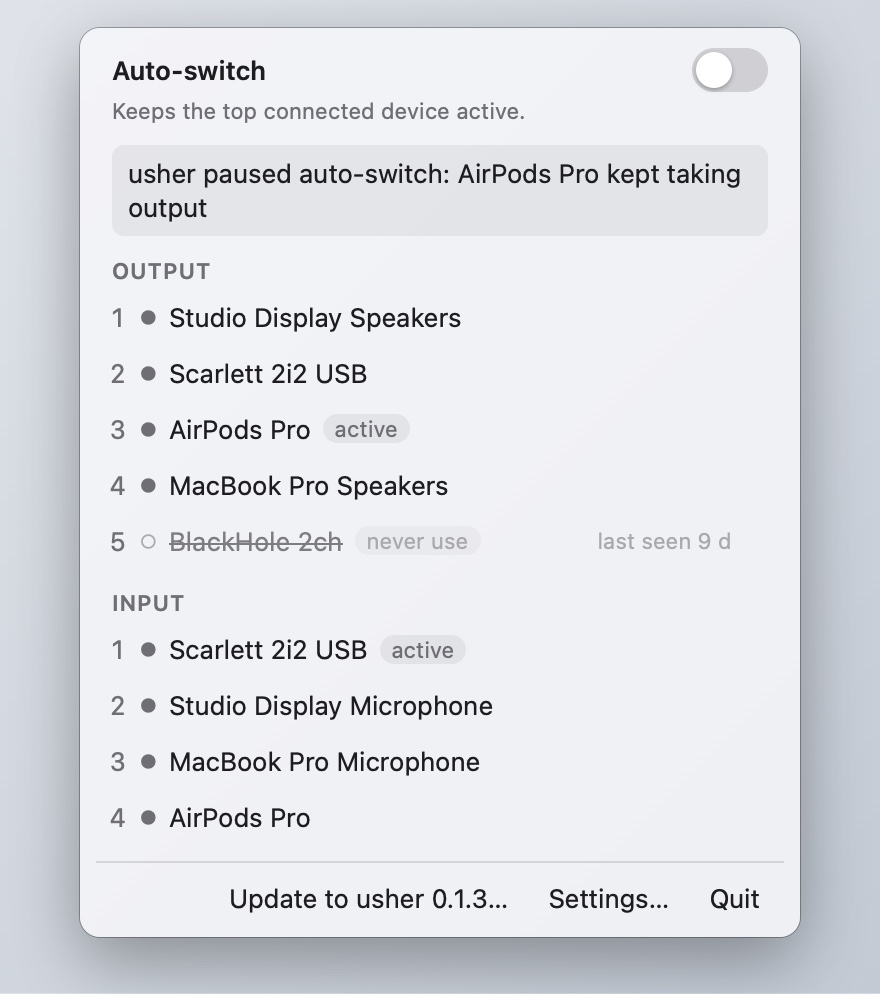
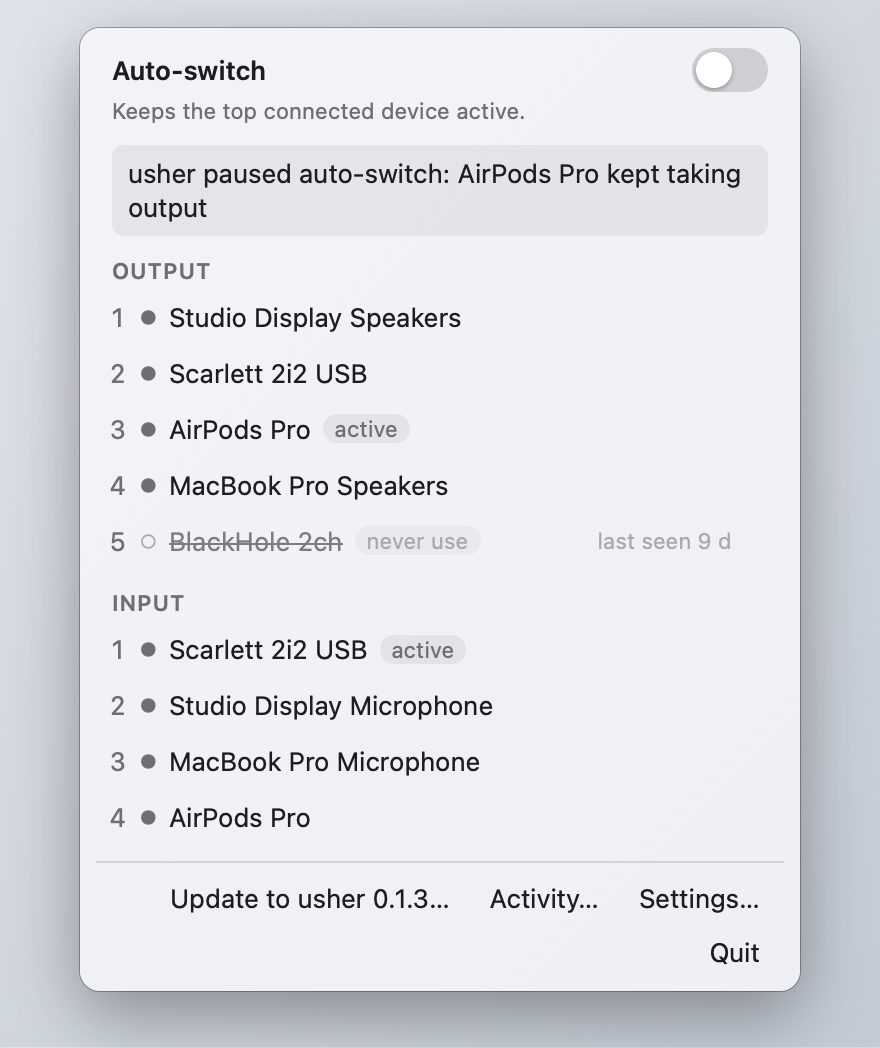
docs: Activity usage, ADR 0011, QA rows and changeset
Claude-Session: https://claude.ai/code/session_012ZCdCJDnGe94t6np1vmDmB

diff --git a/site/scripts/screens/mock.js b/site/scripts/screens/mock.js
@@ -25,10 +25,31 @@
     paused: paused ? { role: 'output', key: 'airpods', name: 'AirPods Pro' } : null,
     output, input, errors: { output: null, input: null }, readOnly: false,
     update: paused ? '0.1.3' : null,
+    notifySwitches: true,
   };
-  const settings = { login: true, loginRefusal: null, debug: false, updateCheck: true, update: '0.1.3', version: '0.1.2' };
+  const settings = { login: true, loginRefusal: null, debug: false, notifySwitches: true, updateCheck: true, update: '0.1.3', version: '0.1.2' };
   // the real 0.1.3 entry of CHANGELOG.md, as release-notes.mjs writes it (no commit hash)
   const notes = "### Patch Changes\n\n- Fixed a brief switch away from a USB audio device that moved port while usher was closed.\n- Replaced the app icon and the menu-bar icon with usher's own design: ranked bars with a sound wave on the top one.\n- Fixed the panel footer overflowing when an update is waiting, and made What's new notes fade out under the title bar when scrolled.\n\n---\n";
+  const min = 60e3;
+  const lines = [
+    { seq: 4, at: ago(1 * min), text: 'Auto-switch on', why: null },
+    { seq: 3, at: ago(6 * min), text: 'Output: Studio Display Speakers → AirPods Pro', why: 'changed in usher' },
+    { seq: 2, at: ago(19 * min), text: 'Input: AirPods Pro → Scarlett 2i2 USB', why: 'AirPods Pro took input; usher put it back' },
+    { seq: 1, at: ago(42 * min), text: 'Output: AirPods Pro → Studio Display Speakers', why: 'AirPods Pro disconnected' },
+  ];
+  // made-up report in the shape Copy diagnostics produces: no names, addresses or serials
+  const report = [
+    'usher 0.2.0 · macOS 26.1 · log ~/Library/Logs/com.cef62.usher/usher.log',
+    'engine: subscribed · rebinding: no · read-only store: no · USB verdict unresolved: no',
+    '',
+    'output: desired AirPods Pro (xx-xx-xx-xx-CF-9D:output), current AirPods Pro (xx-xx-xx-xx-CF-9D:output)',
+    '  1. AirPods Pro (xx-xx-xx-xx-CF-9D:output)',
+    '  2. Studio Display Speakers (uid#1)',
+    '',
+    'devices in the last scan:',
+    '  AirPods Pro · xx-xx-xx-xx-CF-9D:output · bluetooth · alive · visible · serial-less USB: no · alias: none',
+    '',
+  ].join('\n');
   let cbId = 0;
   const cbs = {};
   window.__TAURI_EVENT_PLUGIN_INTERNALS__ = { unregisterListener() {} };
@@ -42,6 +63,8 @@
         case 'plugin:event|listen': return ++cbId;
         case 'get_view': return view;
         case 'get_settings': return settings;
+        case 'get_activity': return lines;
+        case 'get_diagnostics': return report;
         case 'whatsnew_info': return { update: { version: '0.1.3', current_version: '0.1.2', notes }, phase: { kind: 'idle' } };
         // never forwarded anywhere: the mock changes nothing
         default: return null;

diff --git a/docs/adr/0011-v2-scope.md b/docs/adr/0011-v2-scope.md
@@ -1,0 +1,64 @@
+# 0011. v2 scope
+
+- Status: Accepted
+- Date: 2026-11-24
+- Departs from: the v1 non-goals in `docs/superpowers/specs/2026-11-23-usher-design.md` §2
+- Spec: `docs/superpowers/specs/2026-11-24-usher-v2-design.md` §2, §5, §9
+
+## Context
+
+v1 shipped (0.1.0 to 0.1.3) with these non-goals: switch notifications and history, a diagnostics
+UI, volume and mute, Bluetooth connect and battery. The owner asked for them in v2, in three
+milestones: M6 Activity, M7 Volume and mute, M8 Bluetooth.
+
+## Options
+
+1. **Keep the v1 non-goals.** usher stays a silent switcher; bug reports need the log file.
+2. **Lift them one milestone at a time, each with its own ADR where the design departs.** Chosen.
+3. **Lift them all with one ADR.** Hides the M8 trade-offs (IOBluetooth, `unsafe` scope) in a scope note.
+
+## Decision
+
+Option 2. This ADR lifts the v1 non-goals for:
+
+- **Switch notices and a session history** (M6, built).
+- **A diagnostics UI** (M6, built): the Activity window and **Copy diagnostics**, redacted for a public issue.
+- **Volume and mute** (M7, to come) and **Bluetooth connect and battery** (M8, to come). ADR 0012
+  (Bluetooth) and ADR 0013 (level listeners) will record their design.
+
+Non-goals that stay (v2 spec §2): volume or mute shortcuts, option-click or scroll on the icon,
+per-row volume sliders, a remembered volume per device, a persisted history (the log file is the
+permanent record), selecting a device on Connect, and profiles, Focus modes, separate
+speaker and headphone lists, vendor HID and Intel builds. All v1 anti-goals still apply, plus: no
+notice for a change the user made in usher, no CoreAudio write outside the engine thread, nothing
+unsafe to paste in a public issue in Copy diagnostics.
+
+M6 departs from the spec text in four places (plan `2026-11-24-usher-m6-activity.md`):
+
+- **Decision 4, trigger merge order.** The spec's precedence is extended to
+  `Command > Rebind > Launch > DefaultChanged > DevicesChanged`. `Launch` and `Rebind` are history
+  only, so they must outrank the event triggers that would otherwise make a notice at start or
+  after a coreaudiod restart.
+- **Decision 9, history lines are rendered in Rust.** The shell keeps `Line { seq, at, text, why }`;
+  the page only lays them out, so the text exists once (log, window, notice). There is no role
+  column: the role is the first word of the text.
+- **Decision 11, owner-name stripping goes beyond the spec's `'s` rule.** Besides a leading
+  `<name>'s `, any whole word, case-insensitive, of the Mac account's full name or short name is
+  removed together with a connector word before it (`di`, `de`, `da`, `du`, `del`, `von`, `van`,
+  `of`). Device names carry the owner in any language ("AirPods Pro di Ada" on an Italian Mac), and the
+  text is meant for public issues.
+- **Decisions 1 to 3, 5, 6, 10:** the cause comes from the snapshot diff, not the trigger; at most
+  one notice per role per 10 s (history keeps every entry); `Shell::notice` sits beside
+  `Shell::activity`; entries hold names, not keys; diagnostics answer before the first scan; the
+  window shows the redacted text Copy puts on the clipboard.
+
+## Consequences
+
+- **Known limit.** An unplug within about 150 ms of usher's own write can read as
+  "`<name>` took output; usher put it back" instead of "disconnected": the previous snapshot is the
+  pre-write scan, so it still lists the device as current. The device switch itself is right; only the history
+  cause (and the notice it triggers) is off.
+- Diagnostics redaction is allow-list based: an unknown UID shape renders as `uid#<n>`. An owner name the
+  account does not carry (a device renamed to someone else's name) is not caught; the on-screen preview
+  is the backstop.
+- The Usage page, README and screenshots move with the UI (ADR 0010).

diff --git a/docs/qa.md b/docs/qa.md
@@ -39,3 +39,11 @@ Run these on a real Mac with the checks below. Start usher with `USHER_LOG=debug
 | 32 | **Gatekeeper.** Download the release dmg in a browser, install it, open usher. | macOS blocks the first launch. **Open Anyway** or `xattr -cr /Applications/usher.app` lets it start. Later launches and updates need neither. |
 | 33 | **Window glass.** Open Settings and What's new, in light and dark mode, over a busy wallpaper. Drag each by its top strip. Press Tab once in What's new. | Both windows show the panel's translucent Liquid Glass, with round corners and no square edges. The title and traffic lights sit on the glass, not over a control. Each window drags. What's new opens with no focus ring; Tab then shows one. |
 | 34 | **Moved USB device at launch.** Rank a serial-less USB interface first. Quit usher, move the interface to another port, launch usher. Read the log with Debug logging on. | Output stays on the interface: no `set output default to` line naming another device. The log shows `reconcile deferred to the USB recheck` once. |
+| 35 | **Connect notice.** Notify on (default). Connect AirPods that rank above the current output. | One macOS notification titled `usher`: `Output: … → AirPods` (and `Input: …` when AirPods rank for input). The Activity window shows the same line with `AirPods connected`. |
+| 36 | **Unplug notice.** Unplug the top-ranked connected output (or switch its Bluetooth off), then plug it back in. | Each change gives one notice, `Output: … → …`. The Activity window shows `… disconnected`, then `… connected`. |
+| 37 | **Flapping device.** Connect and drop a Bluetooth headset several times within 10 s. | At most one notice per role in 10 s. The Activity window lists every change. The loop guard still trips as in v1, with its own pause notification. |
+| 38 | **Notices off.** Settings: Notify when usher switches off, then repeat row 35. Quit and relaunch. | No notification, yet the Activity window still gets the line. The setting is still off after the relaunch. The log has `switch notices off`. |
+| 39 | **History.** Reorder a device in the panel, then turn Auto-switch off and on. Open Activity… from the panel footer. | Newest line on top, each with a time. A reorder reads `… changed in usher` with no notification. `Auto-switch on` is listed. Nothing is listed from before this launch. |
+| 40 | **Copy diagnostics.** With AirPods and a USB interface connected, open Activity…, open Diagnostics, click Copy diagnostics, paste into a text editor. | The text has no owner name, no full Bluetooth address (only `xx-xx-xx-xx-` and the last two bytes), no USB serial, and `~` in place of the home folder. The status reads `Copied.` |
+| 41 | **Footer at 360 pt.** Turn Debug logging on and have an update pending. Open the panel. | The footer shows Debug, `Update to usher <version>…`, `Activity…`, `Settings…` and `Quit` in one row, or in a clean wrap, with nothing clipped. |
+| 42 | **Activity window.** Open it from the panel footer, the right-click menu (`Activity…`) and Settings › Troubleshooting (`Open Activity…`). | Each opens the same single window. New lines appear while it is open. It drags and resizes, and shows Liquid Glass in light and dark mode. |

diff --git a/README.md b/README.md
@@ -30,4 +30,4 @@ Logs: `~/Library/Logs/com.cef62.usher/usher.log`; `USHER_LOG=debug` adds detail.
 
 ## Using usher
 
-Left-click the menu-bar icon to open the panel. It lists output and input devices in priority order. Drag a row, or focus it and press Alt+Up or Alt+Down, to reorder. Return promotes a row to the top. The `…` menu on each row moves it, stops it being used, or forgets a disconnected device. Right-click the icon for Auto-switch, Settings…, Check for Updates… and Quit usher. Settings has Open at login, Debug logging and Show log in Finder. If usher has to correct the output (or the input) 3 times in 10 seconds, it turns Auto-switch off and the panel says `usher paused auto-switch: <device> kept taking <role>`; turn Auto-switch back on to resume. A device you forget is removed from both lists.
+Left-click the menu-bar icon to open the panel. It lists output and input devices in priority order. Drag a row, or focus it and press Alt+Up or Alt+Down, to reorder. Return promotes a row to the top. The `…` menu on each row moves it, stops it being used, or forgets a disconnected device. Right-click the icon for Auto-switch, Activity…, Settings…, Check for Updates… and Quit usher. Settings has Open at login, Notify when usher switches, Debug logging, Open Activity… and Show log in Finder. If usher has to correct the output (or the input) 3 times in 10 seconds, it turns Auto-switch off and the panel says `usher paused auto-switch: <device> kept taking <role>`; turn Auto-switch back on to resume. When usher switches a device by itself, macOS shows a notification (at most one per role every 10 s; never for a change you make in usher; turn it off with Notify when usher switches). Activity… opens a window with this session's last 200 switches and why, and a diagnostics report: Copy diagnostics puts it on the clipboard for a GitHub issue, without your name, full Bluetooth addresses or USB serials. A device you forget is removed from both lists.

diff --git a/docs/superpowers/plans/2026-11-23-usher-roadmap.md b/docs/superpowers/plans/2026-11-23-usher-roadmap.md
@@ -14,6 +14,16 @@ one or more PRs, following the hop workflow (feature branch, quality gate, adver
 | M4 | Panel and settings | `2026-11-23-usher-m4-panel.md` | The tray-anchored panel (React, dnd-kit, keyboard), the Settings window (login, debug toggle, show log), and the icon states. | M3 |
 | M5 | Updates and release | `2026-11-23-usher-m5-release.md` | The updater, What's new and the release workflows from hop, plus the owner prerequisites (repo, key, secrets). First release. | M4 |
 
+## v2
+
+Spec: `docs/superpowers/specs/2026-11-24-usher-v2-design.md`. Scope: ADR 0011.
+
+| # | Milestone | Plan | Deliverable | Depends on |
+|---|---|---|---|---|
+| M6 | Activity | `2026-11-24-usher-m6-activity.md` | A notification when usher switches a device (on by default, with a setting), a session history in the Activity window, and diagnostics with Copy diagnostics, redacted for a public issue. Ships as 0.2.0. | v1 |
+| M7 | Volume and mute | to plan | Volume slider and mute for the active output and input in the panel, and a dot on the menu-bar icon while the input is muted. | M6 |
+| M8 | Bluetooth | to plan | Battery level of connected Bluetooth audio devices, and Connect and Disconnect for remembered ones. | M6 |
+
 ## Shared conventions (all plans)
 
 **Workspace**

diff --git a/docs/architecture/overview.md b/docs/architecture/overview.md
@@ -22,6 +22,7 @@ flowchart LR
     GUARD[LoopGuard]
     ID[Identity + alias registry]
     ST[State serde]
+    ACTV[explain / diagnostics]
   end
 
   subgraph app["src-tauri (usher)"]
@@ -31,6 +32,7 @@ flowchart LR
     PW[Panel window]
     SL[Settings + Login]
     UPD[Updater + WhatsNew]
+    ACT[Activity window + log]
   end
 
   subgraph ui["src/ (React)"]
@@ -46,6 +48,8 @@ flowchart LR
   ENG --> POL
   POL --> GUARD
   POL --> ID
+  ENG --> ACTV
+  ENG -- activity lines, notices --> ACT
   ENG --> STORE
   STORE --> ST
   ENG -- state-changed --> PANEL

diff --git a/docs/adr/README.md b/docs/adr/README.md
@@ -40,3 +40,4 @@ What gets easier, what gets harder, what we must now do.
 | [0008](0008-updater-settings-and-release-guard.md) | Updater setting, release guard and install restart | Accepted |
 | [0009](0009-reconcile-waits-for-usb-verdicts.md) | Reconcile waits for unresolved USB verdicts (amends 0006) | Accepted |
 | [0010](0010-docs-site.md) | A docs site on GitHub Pages (departs from the v1 non-goal) | Accepted |
+| [0011](0011-v2-scope.md) | v2 scope: notices, history and diagnostics now; volume, mute and Bluetooth later | Accepted |

diff --git a/.changeset/activity-window.md b/.changeset/activity-window.md
@@ -2,4 +2,4 @@
 "usher": minor
 ---
 
-Added an Activity window that lists what usher did this session and copies diagnostics for bug reports.
+Added a notification when usher switches your output or input device (on by default, with a setting to turn it off), an Activity window with this session's history, and diagnostics you can copy into a public bug report.
